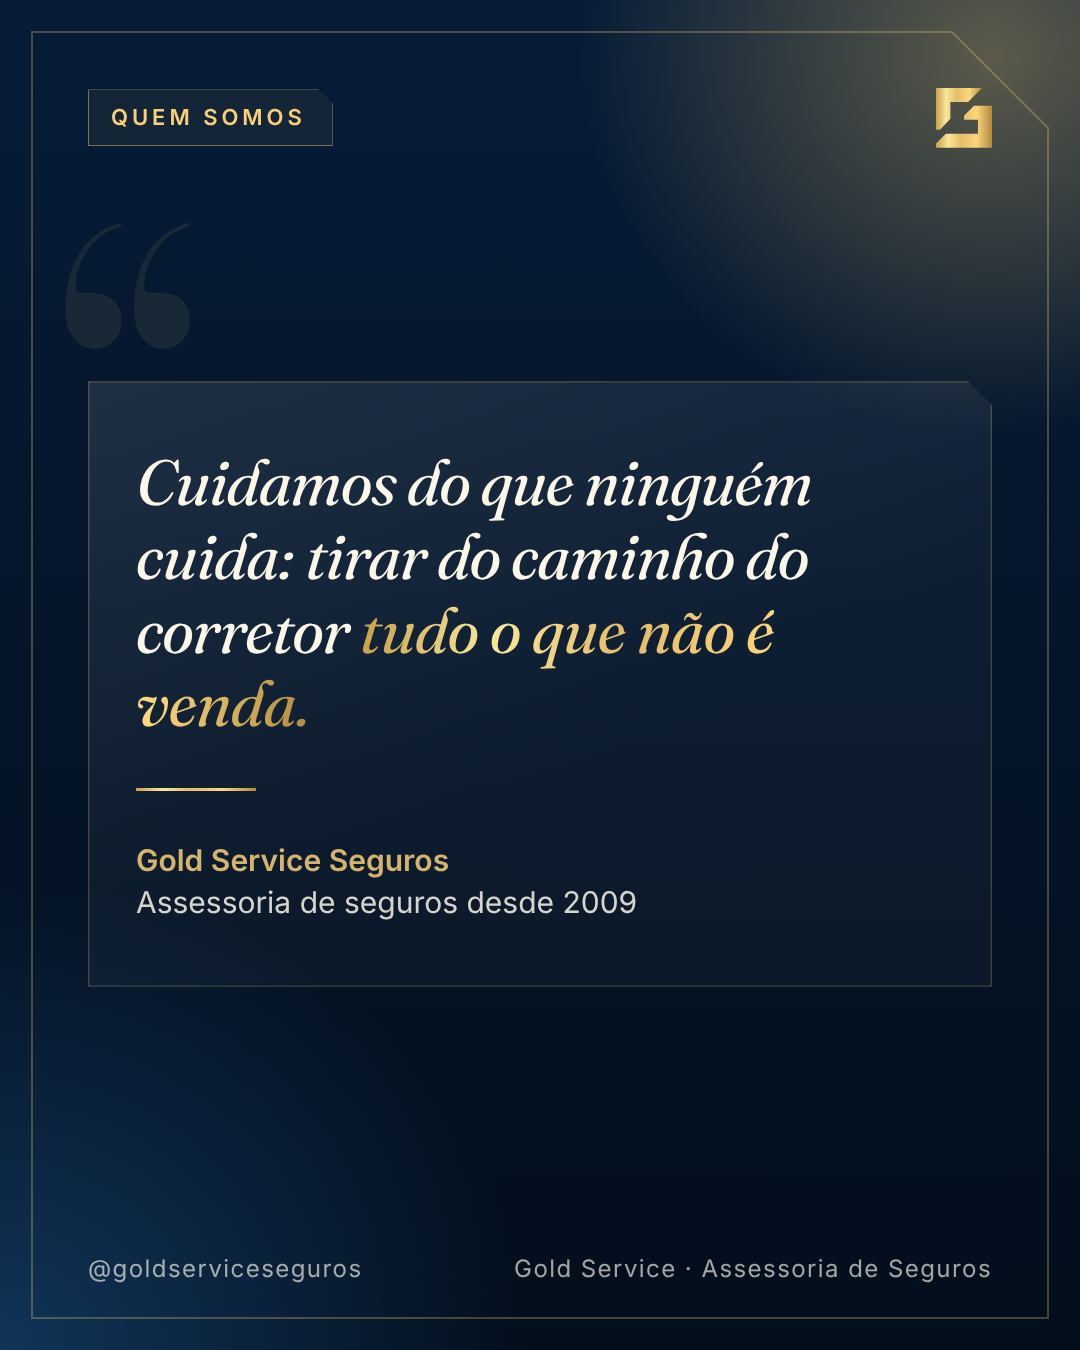
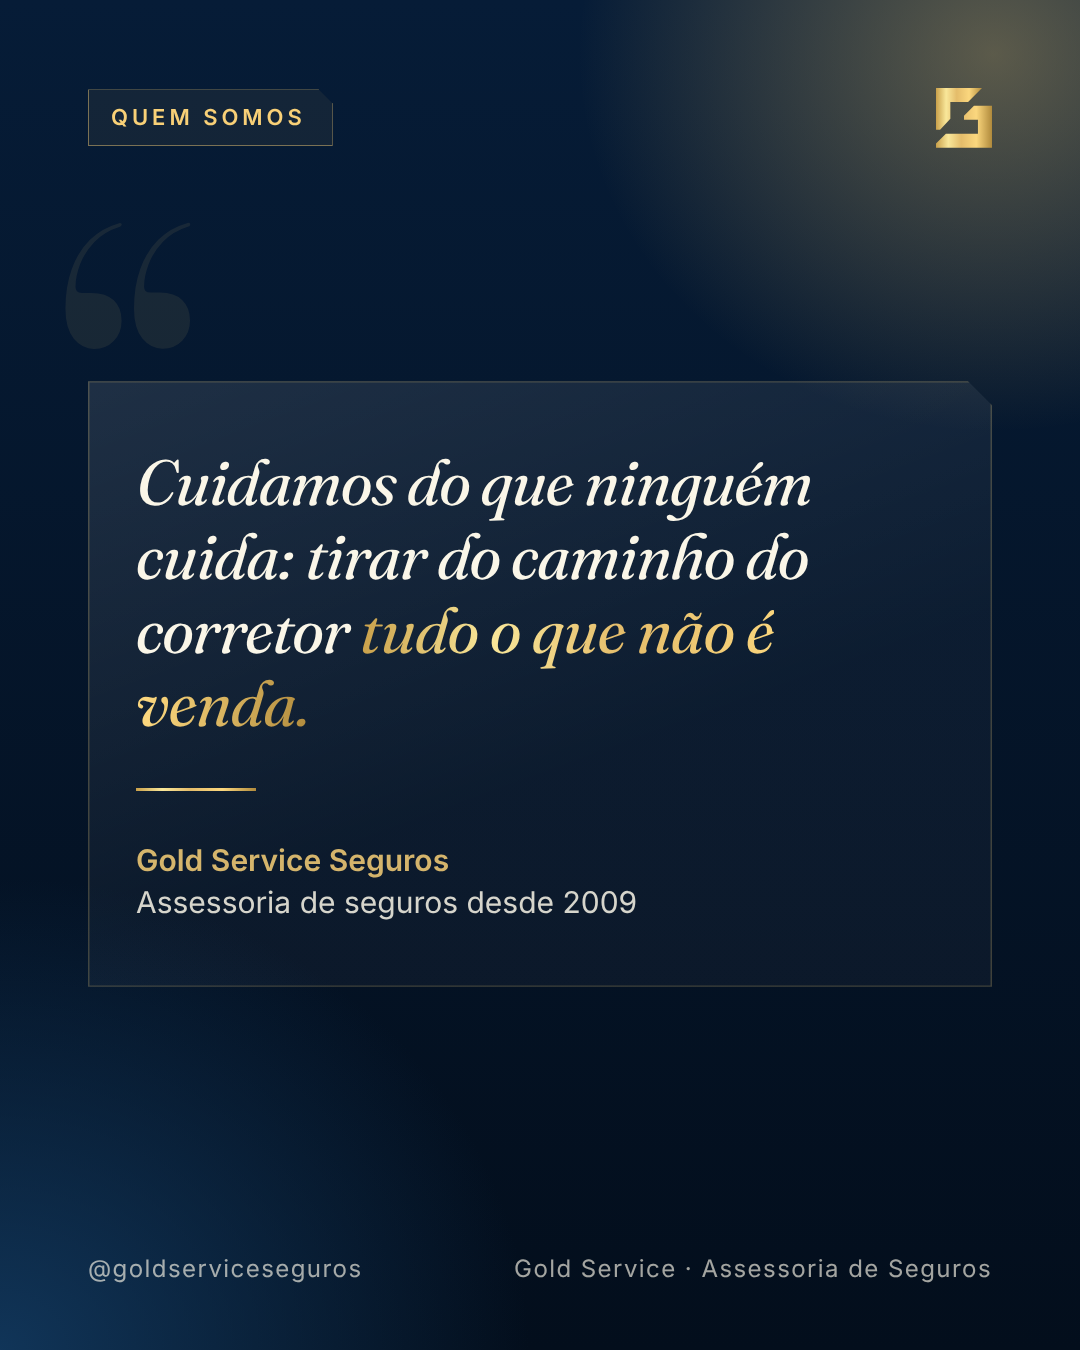
Remove moldura dourada e contador de lâminas dos posts
Claude-Session: https://claude.ai/code/session_01JwFLpMjxbA7XM1TmfeRS4r

diff --git a/brand/esteira/post.css b/brand/esteira/post.css
@@ -26,10 +26,6 @@ html, body { background: #222; }
 .foto::after { content: ""; position: absolute; inset: 0;
   background: linear-gradient(180deg, rgba(3, 14, 28, .7) 0%, rgba(3, 14, 28, .1) 16%, rgba(3, 14, 28, .25) 34%, rgba(3, 14, 28, .75) 52%, rgba(3, 14, 28, .97) 76%); }
 
-/* moldura com canto chanfrado (corte 45° do monograma) */
-.moldura { position: absolute; inset: 0; pointer-events: none; z-index: 0; }
-.moldura path { fill: none; stroke: var(--line-dark); stroke-width: 2; }
-.ivory .moldura path { stroke: var(--line-light); }
 
 /* ênfase: serifa itálica dourada dentro de títulos em sans */
 em { font-family: var(--font-display); font-style: italic; font-weight: 400; letter-spacing: -0.01em;
@@ -78,7 +74,6 @@ strong { font-weight: 600; }
 .seta span { font-size: 1.3em; margin-left: 8px; }
 
 .rodape { display: flex; justify-content: space-between; font-size: var(--post-caption); letter-spacing: .06em; opacity: .65; position: relative; z-index: 1; padding-top: var(--space-4); }
-.pag { font-variant-numeric: tabular-nums; }
 
 /* número grande */
 .num-grande { font-family: var(--font-display); font-style: italic; font-size: 150px; line-height: 1; margin-bottom: var(--space-3);
